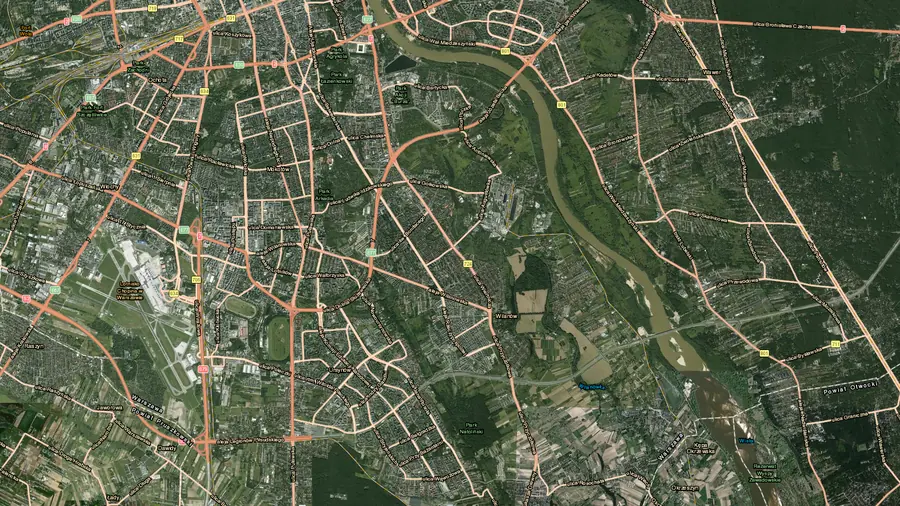
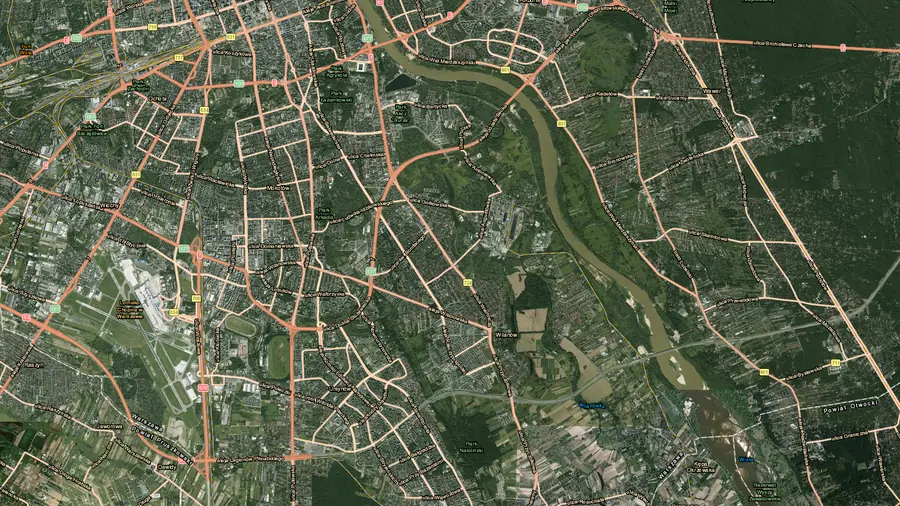
Mapa miejsc: nowa pinezka Wal Miedzeszynski 646 (obok Hangar 646), 175 zl/h
Nowe miejsce takze w grafiku (lib/miejsca.js, id hangar, poza Wawrem:
+15 zl/h, chyba ze obok innej jazdy). Czasy dojazdu z domyslnego wzoru.
Mapa przegenerowana (10 pinezek, oba kadry), dymek na telefonie ciasniej,
legenda: kropka zawsze przy swoim opisie.

diff --git a/static/index.html b/static/index.html
@@ -906,7 +906,7 @@
 
       <!-- Miejsca spotkań: jedna duża mapa. Zdjęcie satelitarne leży na naszym
            serwerze (narzedzia/generuj-mape-miejsc.py — dwa kadry: 16:9 desktop
-           i 1:1 telefon; skrypt podaje pozycje pinezek --x/--y i --xm/--ym).
+           i 4:3 telefon; skrypt podaje pozycje pinezek --x/--y i --xm/--ym).
            Klik w pinezkę otwiera dymek z opisem i linkami (js/main.js); bez JS
            pinezka jest zwykłym linkiem do trasy komunikacją miejską.
            Interaktywna mapa Google (Moje Mapy, iframe) ładuje się DOPIERO po
@@ -917,44 +917,48 @@
         <h3 class="miejsca-tytul" data-i18n="miejsca-tytul">Miejsca spotkań — kliknij pinezkę, żeby zobaczyć cenę i dojazd komunikacją miejską. Inne miejsce można dogadać telefonicznie.</h3>
         <div class="mapa-miejsc" data-mapa-miejsc data-mapa-src="">
           <picture>
-            <source media="(max-width: 760px)" srcset="img/mapy/mapa-miejsc-spotkan-warszawa-telefon.webp" width="1100" height="1100">
-            <img class="mapa-podglad" src="img/mapy/mapa-miejsc-spotkan-warszawa-900.webp" srcset="img/mapy/mapa-miejsc-spotkan-warszawa-900.webp 900w, img/mapy/mapa-miejsc-spotkan-warszawa.webp 1770w" sizes="(max-width: 1100px) calc(100vw - 40px), 1060px" width="1770" height="996" alt="Mapa satelitarna południowej Warszawy z 9 miejscami spotkań na jazdy doszkalające — od Łopuszańskiej po Wawer" loading="lazy" data-i18n-attr="alt:mapa-alt">
+            <source media="(max-width: 760px)" srcset="img/mapy/mapa-miejsc-spotkan-warszawa-telefon.webp" width="1100" height="825">
+            <img class="mapa-podglad" src="img/mapy/mapa-miejsc-spotkan-warszawa-900.webp" srcset="img/mapy/mapa-miejsc-spotkan-warszawa-900.webp 900w, img/mapy/mapa-miejsc-spotkan-warszawa.webp 1770w" sizes="(max-width: 1100px) calc(100vw - 40px), 1060px" width="1770" height="996" alt="Mapa satelitarna południowej Warszawy z 10 miejscami spotkań na jazdy doszkalające — od Łopuszańskiej po Wawer" loading="lazy" data-i18n-attr="alt:mapa-alt">
           </picture>
-          <a class="mapa-pin mapa-pin-gratis etykieta-dol-lewo" style="--x:89.29%;--y:46.7%;--xm:96.05%;--ym:47.82%" href="https://www.google.com/maps/dir/?api=1&amp;destination=52.181497,21.190287&amp;travelmode=transit" target="_blank" rel="noopener" data-dymek="dymek-1" aria-controls="dymek-1">
+          <a class="mapa-pin mapa-pin-gratis etykieta-dol-lewo" style="--x:89.29%;--y:50.41%;--xm:96.05%;--ym:50.27%" href="https://www.google.com/maps/dir/?api=1&amp;destination=52.181497,21.190287&amp;travelmode=transit" target="_blank" rel="noopener" data-dymek="dymek-1" aria-controls="dymek-1">
             <span class="mapa-pin-ikona" aria-hidden="true"></span>
             <span class="mapa-pin-etykieta"><span>Będzińska / K&amp;M Park</span> <b>160 zł/h</b></span>
           </a>
-          <a class="mapa-pin mapa-pin-gratis etykieta-lewo" style="--x:73.55%;--y:42.75%;--xm:77.6%;--ym:45.22%" href="https://www.google.com/maps/dir/?api=1&amp;destination=52.185638,21.142464&amp;travelmode=transit" target="_blank" rel="noopener" data-dymek="dymek-2" aria-controls="dymek-2">
+          <a class="mapa-pin mapa-pin-gratis etykieta-lewo" style="--x:73.55%;--y:46.46%;--xm:77.6%;--ym:47.67%" href="https://www.google.com/maps/dir/?api=1&amp;destination=52.185638,21.142464&amp;travelmode=transit" target="_blank" rel="noopener" data-dymek="dymek-2" aria-controls="dymek-2">
             <span class="mapa-pin-ikona" aria-hidden="true"></span>
             <span class="mapa-pin-etykieta"><span>Zerzeń / DoubleTree</span> <b>160 zł/h</b></span>
           </a>
-          <a class="mapa-pin mapa-pin-gratis etykieta-lewo" style="--x:81.97%;--y:22.9%;--xm:87.48%;--ym:32.13%" href="https://www.google.com/maps/dir/?api=1&amp;destination=52.206440,21.168065&amp;travelmode=transit" target="_blank" rel="noopener" data-dymek="dymek-3" aria-controls="dymek-3">
+          <a class="mapa-pin mapa-pin-gratis etykieta-lewo" style="--x:81.97%;--y:26.62%;--xm:87.48%;--ym:34.58%" href="https://www.google.com/maps/dir/?api=1&amp;destination=52.206440,21.168065&amp;travelmode=transit" target="_blank" rel="noopener" data-dymek="dymek-3" aria-controls="dymek-3">
             <span class="mapa-pin-ikona" aria-hidden="true"></span>
             <span class="mapa-pin-etykieta"><span>Ferio Wawer</span> <b>160 zł/h</b></span>
           </a>
-          <a class="mapa-pin mapa-pin-uzgodnienie etykieta-prawo" style="--x:57.38%;--y:73.9%;--xm:58.65%;--ym:65.76%" href="https://www.google.com/maps/dir/?api=1&amp;destination=52.152972,21.093352&amp;travelmode=transit" target="_blank" rel="noopener" data-dymek="dymek-4" aria-controls="dymek-4">
+          <a class="mapa-pin mapa-pin-uzgodnienie etykieta-prawo" style="--x:57.38%;--y:77.62%;--xm:58.65%;--ym:68.22%" href="https://www.google.com/maps/dir/?api=1&amp;destination=52.152972,21.093352&amp;travelmode=transit" target="_blank" rel="noopener" data-dymek="dymek-4" aria-controls="dymek-4">
             <span class="mapa-pin-ikona" aria-hidden="true"></span>
             <span class="mapa-pin-etykieta"><span>Bricoman Wilanów</span> <b>175 zł/h</b></span>
           </a>
-          <a class="mapa-pin mapa-pin-uzgodnienie etykieta-lewo" style="--x:34.52%;--y:84.52%;--xm:31.85%;--ym:72.77%" href="https://www.google.com/maps/dir/?api=1&amp;destination=52.141827,21.023871&amp;travelmode=transit" target="_blank" rel="noopener" data-dymek="dymek-5" aria-controls="dymek-5">
+          <a class="mapa-pin mapa-pin-uzgodnienie etykieta-lewo" style="--x:34.52%;--y:88.24%;--xm:31.85%;--ym:75.22%" href="https://www.google.com/maps/dir/?api=1&amp;destination=52.141827,21.023871&amp;travelmode=transit" target="_blank" rel="noopener" data-dymek="dymek-5" aria-controls="dymek-5">
             <span class="mapa-pin-ikona" aria-hidden="true"></span>
             <span class="mapa-pin-etykieta"><span>Auchan Puławska 427</span> <b>175 zł/h</b></span>
           </a>
-          <a class="mapa-pin mapa-pin-uzgodnienie etykieta-prawo" style="--x:28.86%;--y:50.25%;--xm:25.22%;--ym:50.17%" href="https://www.google.com/maps/dir/?api=1&amp;destination=52.177775,21.006682&amp;travelmode=transit" target="_blank" rel="noopener" data-dymek="dymek-6" aria-controls="dymek-6">
+          <a class="mapa-pin mapa-pin-uzgodnienie etykieta-prawo" style="--x:28.86%;--y:53.97%;--xm:25.22%;--ym:52.62%" href="https://www.google.com/maps/dir/?api=1&amp;destination=52.177775,21.006682&amp;travelmode=transit" target="_blank" rel="noopener" data-dymek="dymek-6" aria-controls="dymek-6">
             <span class="mapa-pin-ikona" aria-hidden="true"></span>
             <span class="mapa-pin-etykieta"><span>Shell, Galeria Mokotów</span> <b>175 zł/h</b></span>
           </a>
-          <a class="mapa-pin mapa-pin-uzgodnienie etykieta-dol-prawo" style="--x:45.03%;--y:77.74%;--xm:44.17%;--ym:68.3%" href="https://www.google.com/maps/dir/?api=1&amp;destination=52.148946,21.055811&amp;travelmode=transit" target="_blank" rel="noopener" data-dymek="dymek-7" aria-controls="dymek-7">
+          <a class="mapa-pin mapa-pin-uzgodnienie etykieta-dol-prawo" style="--x:45.03%;--y:81.45%;--xm:44.17%;--ym:70.75%" href="https://www.google.com/maps/dir/?api=1&amp;destination=52.148946,21.055811&amp;travelmode=transit" target="_blank" rel="noopener" data-dymek="dymek-7" aria-controls="dymek-7">
             <span class="mapa-pin-ikona" aria-hidden="true"></span>
             <span class="mapa-pin-etykieta"><span>Cynamonowa 4</span> <b>175 zł/h</b></span>
           </a>
-          <a class="mapa-pin mapa-pin-uzgodnienie etykieta-prawo" style="--x:10.74%;--y:36.13%;--xm:3.98%;--ym:40.85%" href="https://www.google.com/maps/dir/?api=1&amp;destination=52.192578,20.951633&amp;travelmode=transit" target="_blank" rel="noopener" data-dymek="dymek-8" aria-controls="dymek-8">
+          <a class="mapa-pin mapa-pin-uzgodnienie etykieta-prawo" style="--x:10.74%;--y:39.84%;--xm:3.98%;--ym:43.3%" href="https://www.google.com/maps/dir/?api=1&amp;destination=52.192578,20.951633&amp;travelmode=transit" target="_blank" rel="noopener" data-dymek="dymek-8" aria-controls="dymek-8">
             <span class="mapa-pin-ikona" aria-hidden="true"></span>
             <span class="mapa-pin-etykieta"><span>Łopuszańska 22</span> <b>175 zł/h</b></span>
           </a>
-          <a class="mapa-pin mapa-pin-uzgodnienie etykieta-prawo" style="--x:28.33%;--y:15.39%;--xm:24.6%;--ym:27.17%" href="https://www.google.com/maps/dir/?api=1&amp;destination=52.214311,21.005091&amp;travelmode=transit" target="_blank" rel="noopener" data-dymek="dymek-9" aria-controls="dymek-9">
+          <a class="mapa-pin mapa-pin-uzgodnienie etykieta-prawo" style="--x:28.33%;--y:19.1%;--xm:24.6%;--ym:29.62%" href="https://www.google.com/maps/dir/?api=1&amp;destination=52.214311,21.005091&amp;travelmode=transit" target="_blank" rel="noopener" data-dymek="dymek-9" aria-controls="dymek-9">
             <span class="mapa-pin-ikona" aria-hidden="true"></span>
             <span class="mapa-pin-etykieta"><span data-i18n="mk-9">Biblioteka Narodowa</span> <b>175 zł/h</b></span>
+          </a>
+          <a class="mapa-pin mapa-pin-uzgodnienie etykieta-prawo" style="--x:53.91%;--y:11.74%;--xm:54.58%;--ym:24.76%" href="https://www.google.com/maps/dir/?api=1&amp;destination=52.222022,21.082785&amp;travelmode=transit" target="_blank" rel="noopener" data-dymek="dymek-10" aria-controls="dymek-10">
+            <span class="mapa-pin-ikona" aria-hidden="true"></span>
+            <span class="mapa-pin-etykieta"><span>Hangar 646</span> <b>175 zł/h</b></span>
           </a>
           <div class="mapa-dymek mapa-dymek-gratis" id="dymek-1" role="dialog" aria-labelledby="dymek-1-tytul" tabindex="-1" hidden>
             <button type="button" class="mapa-dymek-zamknij" data-dymek-zamknij aria-label="Zamknij" data-i18n-attr="aria-label:mapa-dymek-zamknij">&times;</button>
@@ -1044,6 +1048,16 @@
             <div class="mapa-dymek-linki">
               <a class="mapa-dymek-trasa" href="https://www.google.com/maps/dir/?api=1&amp;destination=52.214311,21.005091&amp;travelmode=transit" target="_blank" rel="noopener"><svg viewBox="0 0 24 24" aria-hidden="true"><path d="M4 16c0 .88.39 1.67 1 2.22V20a1 1 0 0 0 1 1h1a1 1 0 0 0 1-1v-1h8v1a1 1 0 0 0 1 1h1a1 1 0 0 0 1-1v-1.78c.61-.55 1-1.34 1-2.22V6c0-3.5-3.58-4-8-4S4 2.5 4 6v10zm3.5 1a1.5 1.5 0 1 1 0-3 1.5 1.5 0 0 1 0 3zm9 0a1.5 1.5 0 1 1 0-3 1.5 1.5 0 0 1 0 3zM18 11H6V6h12v5z"/></svg><span data-i18n="miejsce-trasa">Dojazd komunikacją</span></a>
               <a class="mapa-dymek-mapa" href="https://www.google.com/maps/search/?api=1&amp;query=52.21431110095896,21.005091288313384" target="_blank" rel="noopener"><span data-i18n="miejsce-mapa">Mapa</span> ↗</a>
+            </div>
+          </div>
+          <div class="mapa-dymek mapa-dymek-uzgodnienie" id="dymek-10" role="dialog" aria-labelledby="dymek-10-tytul" tabindex="-1" hidden>
+            <button type="button" class="mapa-dymek-zamknij" data-dymek-zamknij aria-label="Zamknij" data-i18n-attr="aria-label:mapa-dymek-zamknij">&times;</button>
+            <p class="mapa-dymek-cena" data-i18n="miejsce-uzg">Do uzgodnienia · 175 zł/h</p>
+            <h4 class="mapa-dymek-tytul" id="dymek-10-tytul" data-i18n="m2-7">Wał Miedzeszyński 646 (obok Hangar 646)</h4>
+            <p class="mapa-dymek-opis" data-i18n="miejsce-uzg-opis">Dopłata 15 zł/h za dojazd, chyba że tego dnia i tak jestem w pobliżu — wtedy 160 zł/h. Trzeba wcześniej dogadać: WhatsApp, SMS lub telefon.</p>
+            <div class="mapa-dymek-linki">
+              <a class="mapa-dymek-trasa" href="https://www.google.com/maps/dir/?api=1&amp;destination=52.222022,21.082785&amp;travelmode=transit" target="_blank" rel="noopener"><svg viewBox="0 0 24 24" aria-hidden="true"><path d="M4 16c0 .88.39 1.67 1 2.22V20a1 1 0 0 0 1 1h1a1 1 0 0 0 1-1v-1h8v1a1 1 0 0 0 1 1h1a1 1 0 0 0 1-1v-1.78c.61-.55 1-1.34 1-2.22V6c0-3.5-3.58-4-8-4S4 2.5 4 6v10zm3.5 1a1.5 1.5 0 1 1 0-3 1.5 1.5 0 0 1 0 3zm9 0a1.5 1.5 0 1 1 0-3 1.5 1.5 0 0 1 0 3zM18 11H6V6h12v5z"/></svg><span data-i18n="miejsce-trasa">Dojazd komunikacją</span></a>
+              <a class="mapa-dymek-mapa" href="https://www.google.com/maps/search/?api=1&amp;query=52.2220217,21.0827851" target="_blank" rel="noopener"><span data-i18n="miejsce-mapa">Mapa</span> ↗</a>
             </div>
           </div>
           <button type="button" class="mapa-przybliz" data-mapa-przybliz hidden><svg viewBox="0 0 24 24" aria-hidden="true"><path d="M15.5 14h-.79l-.28-.27A6.47 6.47 0 0 0 16 9.5 6.5 6.5 0 1 0 9.5 16c1.61 0 3.09-.59 4.23-1.57l.27.28v.79l5 4.99L20.49 19l-4.99-5zm-6 0C7.01 14 5 11.99 5 9.5S7.01 5 9.5 5 14 7.01 14 9.5 11.99 14 9.5 14zm.5-7H9v2H7v1h2v2h1v-2h2V9h-2z"/></svg><span data-i18n="mapa-przybliz">Przybliż na mapie Google</span></button>

diff --git a/static/en.html b/static/en.html
@@ -799,7 +799,7 @@
 
       <!-- Miejsca spotkań: jedna duża mapa. Zdjęcie satelitarne leży na naszym
            serwerze (narzedzia/generuj-mape-miejsc.py — dwa kadry: 16:9 desktop
-           i 1:1 telefon; skrypt podaje pozycje pinezek --x/--y i --xm/--ym).
+           i 4:3 telefon; skrypt podaje pozycje pinezek --x/--y i --xm/--ym).
            Klik w pinezkę otwiera dymek z opisem i linkami (js/main.js); bez JS
            pinezka jest zwykłym linkiem do trasy komunikacją miejską.
            Interaktywna mapa Google (Moje Mapy, iframe) ładuje się DOPIERO po
@@ -810,44 +810,48 @@
         <h3 class="miejsca-tytul" data-i18n="miejsca-tytul">Meeting points — tap a pin to see the price and how to get there by public transport. Another spot can be arranged by phone.</h3>
         <div class="mapa-miejsc" data-mapa-miejsc data-mapa-src="">
           <picture>
-            <source media="(max-width: 760px)" srcset="img/mapy/mapa-miejsc-spotkan-warszawa-telefon.webp" width="1100" height="1100">
-            <img class="mapa-podglad" src="img/mapy/mapa-miejsc-spotkan-warszawa-900.webp" srcset="img/mapy/mapa-miejsc-spotkan-warszawa-900.webp 900w, img/mapy/mapa-miejsc-spotkan-warszawa.webp 1770w" sizes="(max-width: 1100px) calc(100vw - 40px), 1060px" width="1770" height="996" alt="Satellite map of southern Warsaw with 9 meeting points for refresher driving lessons — from Łopuszańska to Wawer" loading="lazy" data-i18n-attr="alt:mapa-alt">
+            <source media="(max-width: 760px)" srcset="img/mapy/mapa-miejsc-spotkan-warszawa-telefon.webp" width="1100" height="825">
+            <img class="mapa-podglad" src="img/mapy/mapa-miejsc-spotkan-warszawa-900.webp" srcset="img/mapy/mapa-miejsc-spotkan-warszawa-900.webp 900w, img/mapy/mapa-miejsc-spotkan-warszawa.webp 1770w" sizes="(max-width: 1100px) calc(100vw - 40px), 1060px" width="1770" height="996" alt="Satellite map of southern Warsaw with 10 meeting points for refresher driving lessons — from Łopuszańska to Wawer" loading="lazy" data-i18n-attr="alt:mapa-alt">
           </picture>
-          <a class="mapa-pin mapa-pin-gratis etykieta-dol-lewo" style="--x:89.29%;--y:46.7%;--xm:96.05%;--ym:47.82%" href="https://www.google.com/maps/dir/?api=1&amp;destination=52.181497,21.190287&amp;travelmode=transit" target="_blank" rel="noopener" data-dymek="dymek-1" aria-controls="dymek-1">
+          <a class="mapa-pin mapa-pin-gratis etykieta-dol-lewo" style="--x:89.29%;--y:50.41%;--xm:96.05%;--ym:50.27%" href="https://www.google.com/maps/dir/?api=1&amp;destination=52.181497,21.190287&amp;travelmode=transit" target="_blank" rel="noopener" data-dymek="dymek-1" aria-controls="dymek-1">
             <span class="mapa-pin-ikona" aria-hidden="true"></span>
             <span class="mapa-pin-etykieta"><span>Będzińska / K&amp;M Park</span> <b>160 zł/h</b></span>
           </a>
-          <a class="mapa-pin mapa-pin-gratis etykieta-lewo" style="--x:73.55%;--y:42.75%;--xm:77.6%;--ym:45.22%" href="https://www.google.com/maps/dir/?api=1&amp;destination=52.185638,21.142464&amp;travelmode=transit" target="_blank" rel="noopener" data-dymek="dymek-2" aria-controls="dymek-2">
+          <a class="mapa-pin mapa-pin-gratis etykieta-lewo" style="--x:73.55%;--y:46.46%;--xm:77.6%;--ym:47.67%" href="https://www.google.com/maps/dir/?api=1&amp;destination=52.185638,21.142464&amp;travelmode=transit" target="_blank" rel="noopener" data-dymek="dymek-2" aria-controls="dymek-2">
             <span class="mapa-pin-ikona" aria-hidden="true"></span>
             <span class="mapa-pin-etykieta"><span>Zerzeń / DoubleTree</span> <b>160 zł/h</b></span>
           </a>
-          <a class="mapa-pin mapa-pin-gratis etykieta-lewo" style="--x:81.97%;--y:22.9%;--xm:87.48%;--ym:32.13%" href="https://www.google.com/maps/dir/?api=1&amp;destination=52.206440,21.168065&amp;travelmode=transit" target="_blank" rel="noopener" data-dymek="dymek-3" aria-controls="dymek-3">
+          <a class="mapa-pin mapa-pin-gratis etykieta-lewo" style="--x:81.97%;--y:26.62%;--xm:87.48%;--ym:34.58%" href="https://www.google.com/maps/dir/?api=1&amp;destination=52.206440,21.168065&amp;travelmode=transit" target="_blank" rel="noopener" data-dymek="dymek-3" aria-controls="dymek-3">
             <span class="mapa-pin-ikona" aria-hidden="true"></span>
             <span class="mapa-pin-etykieta"><span>Ferio Wawer</span> <b>160 zł/h</b></span>
           </a>
-          <a class="mapa-pin mapa-pin-uzgodnienie etykieta-prawo" style="--x:57.38%;--y:73.9%;--xm:58.65%;--ym:65.76%" href="https://www.google.com/maps/dir/?api=1&amp;destination=52.152972,21.093352&amp;travelmode=transit" target="_blank" rel="noopener" data-dymek="dymek-4" aria-controls="dymek-4">
+          <a class="mapa-pin mapa-pin-uzgodnienie etykieta-prawo" style="--x:57.38%;--y:77.62%;--xm:58.65%;--ym:68.22%" href="https://www.google.com/maps/dir/?api=1&amp;destination=52.152972,21.093352&amp;travelmode=transit" target="_blank" rel="noopener" data-dymek="dymek-4" aria-controls="dymek-4">
             <span class="mapa-pin-ikona" aria-hidden="true"></span>
             <span class="mapa-pin-etykieta"><span>Bricoman Wilanów</span> <b>175 zł/h</b></span>
           </a>
-          <a class="mapa-pin mapa-pin-uzgodnienie etykieta-lewo" style="--x:34.52%;--y:84.52%;--xm:31.85%;--ym:72.77%" href="https://www.google.com/maps/dir/?api=1&amp;destination=52.141827,21.023871&amp;travelmode=transit" target="_blank" rel="noopener" data-dymek="dymek-5" aria-controls="dymek-5">
+          <a class="mapa-pin mapa-pin-uzgodnienie etykieta-lewo" style="--x:34.52%;--y:88.24%;--xm:31.85%;--ym:75.22%" href="https://www.google.com/maps/dir/?api=1&amp;destination=52.141827,21.023871&amp;travelmode=transit" target="_blank" rel="noopener" data-dymek="dymek-5" aria-controls="dymek-5">
             <span class="mapa-pin-ikona" aria-hidden="true"></span>
             <span class="mapa-pin-etykieta"><span>Auchan Puławska 427</span> <b>175 zł/h</b></span>
           </a>
-          <a class="mapa-pin mapa-pin-uzgodnienie etykieta-prawo" style="--x:28.86%;--y:50.25%;--xm:25.22%;--ym:50.17%" href="https://www.google.com/maps/dir/?api=1&amp;destination=52.177775,21.006682&amp;travelmode=transit" target="_blank" rel="noopener" data-dymek="dymek-6" aria-controls="dymek-6">
+          <a class="mapa-pin mapa-pin-uzgodnienie etykieta-prawo" style="--x:28.86%;--y:53.97%;--xm:25.22%;--ym:52.62%" href="https://www.google.com/maps/dir/?api=1&amp;destination=52.177775,21.006682&amp;travelmode=transit" target="_blank" rel="noopener" data-dymek="dymek-6" aria-controls="dymek-6">
             <span class="mapa-pin-ikona" aria-hidden="true"></span>
             <span class="mapa-pin-etykieta"><span>Shell, Galeria Mokotów</span> <b>175 zł/h</b></span>
           </a>
-          <a class="mapa-pin mapa-pin-uzgodnienie etykieta-dol-prawo" style="--x:45.03%;--y:77.74%;--xm:44.17%;--ym:68.3%" href="https://www.google.com/maps/dir/?api=1&amp;destination=52.148946,21.055811&amp;travelmode=transit" target="_blank" rel="noopener" data-dymek="dymek-7" aria-controls="dymek-7">
+          <a class="mapa-pin mapa-pin-uzgodnienie etykieta-dol-prawo" style="--x:45.03%;--y:81.45%;--xm:44.17%;--ym:70.75%" href="https://www.google.com/maps/dir/?api=1&amp;destination=52.148946,21.055811&amp;travelmode=transit" target="_blank" rel="noopener" data-dymek="dymek-7" aria-controls="dymek-7">
             <span class="mapa-pin-ikona" aria-hidden="true"></span>
             <span class="mapa-pin-etykieta"><span>Cynamonowa 4</span> <b>175 zł/h</b></span>
           </a>
-          <a class="mapa-pin mapa-pin-uzgodnienie etykieta-prawo" style="--x:10.74%;--y:36.13%;--xm:3.98%;--ym:40.85%" href="https://www.google.com/maps/dir/?api=1&amp;destination=52.192578,20.951633&amp;travelmode=transit" target="_blank" rel="noopener" data-dymek="dymek-8" aria-controls="dymek-8">
+          <a class="mapa-pin mapa-pin-uzgodnienie etykieta-prawo" style="--x:10.74%;--y:39.84%;--xm:3.98%;--ym:43.3%" href="https://www.google.com/maps/dir/?api=1&amp;destination=52.192578,20.951633&amp;travelmode=transit" target="_blank" rel="noopener" data-dymek="dymek-8" aria-controls="dymek-8">
             <span class="mapa-pin-ikona" aria-hidden="true"></span>
             <span class="mapa-pin-etykieta"><span>Łopuszańska 22</span> <b>175 zł/h</b></span>
           </a>
-          <a class="mapa-pin mapa-pin-uzgodnienie etykieta-prawo" style="--x:28.33%;--y:15.39%;--xm:24.6%;--ym:27.17%" href="https://www.google.com/maps/dir/?api=1&amp;destination=52.214311,21.005091&amp;travelmode=transit" target="_blank" rel="noopener" data-dymek="dymek-9" aria-controls="dymek-9">
+          <a class="mapa-pin mapa-pin-uzgodnienie etykieta-prawo" style="--x:28.33%;--y:19.1%;--xm:24.6%;--ym:29.62%" href="https://www.google.com/maps/dir/?api=1&amp;destination=52.214311,21.005091&amp;travelmode=transit" target="_blank" rel="noopener" data-dymek="dymek-9" aria-controls="dymek-9">
             <span class="mapa-pin-ikona" aria-hidden="true"></span>
             <span class="mapa-pin-etykieta"><span data-i18n="mk-9">National Library</span> <b>175 zł/h</b></span>
+          </a>
+          <a class="mapa-pin mapa-pin-uzgodnienie etykieta-prawo" style="--x:53.91%;--y:11.74%;--xm:54.58%;--ym:24.76%" href="https://www.google.com/maps/dir/?api=1&amp;destination=52.222022,21.082785&amp;travelmode=transit" target="_blank" rel="noopener" data-dymek="dymek-10" aria-controls="dymek-10">
+            <span class="mapa-pin-ikona" aria-hidden="true"></span>
+            <span class="mapa-pin-etykieta"><span>Hangar 646</span> <b>175 zł/h</b></span>
           </a>
           <div class="mapa-dymek mapa-dymek-gratis" id="dymek-1" role="dialog" aria-labelledby="dymek-1-tytul" tabindex="-1" hidden>
             <button type="button" class="mapa-dymek-zamknij" data-dymek-zamknij aria-label="Close" data-i18n-attr="aria-label:mapa-dymek-zamknij">&times;</button>
@@ -937,6 +941,16 @@
             <div class="mapa-dymek-linki">
               <a class="mapa-dymek-trasa" href="https://www.google.com/maps/dir/?api=1&amp;destination=52.214311,21.005091&amp;travelmode=transit" target="_blank" rel="noopener"><svg viewBox="0 0 24 24" aria-hidden="true"><path d="M4 16c0 .88.39 1.67 1 2.22V20a1 1 0 0 0 1 1h1a1 1 0 0 0 1-1v-1h8v1a1 1 0 0 0 1 1h1a1 1 0 0 0 1-1v-1.78c.61-.55 1-1.34 1-2.22V6c0-3.5-3.58-4-8-4S4 2.5 4 6v10zm3.5 1a1.5 1.5 0 1 1 0-3 1.5 1.5 0 0 1 0 3zm9 0a1.5 1.5 0 1 1 0-3 1.5 1.5 0 0 1 0 3zM18 11H6V6h12v5z"/></svg><span data-i18n="miejsce-trasa">Public transport</span></a>
               <a class="mapa-dymek-mapa" href="https://www.google.com/maps/search/?api=1&amp;query=52.21431110095896,21.005091288313384" target="_blank" rel="noopener"><span data-i18n="miejsce-mapa">Map</span> ↗</a>
+            </div>
+          </div>
+          <div class="mapa-dymek mapa-dymek-uzgodnienie" id="dymek-10" role="dialog" aria-labelledby="dymek-10-tytul" tabindex="-1" hidden>
+            <button type="button" class="mapa-dymek-zamknij" data-dymek-zamknij aria-label="Close" data-i18n-attr="aria-label:mapa-dymek-zamknij">&times;</button>
+            <p class="mapa-dymek-cena" data-i18n="miejsce-uzg">To be agreed · 175 zł/h</p>
+            <h4 class="mapa-dymek-tytul" id="dymek-10-tytul" data-i18n="m2-7">Wał Miedzeszyński 646 (next to Hangar 646)</h4>
+            <p class="mapa-dymek-opis" data-i18n="miejsce-uzg-opis">A 15 zł/h travel surcharge, unless I’m already nearby that day — then 160 zł/h. Please arrange it in advance: WhatsApp, SMS or a phone call.</p>
+            <div class="mapa-dymek-linki">
+              <a class="mapa-dymek-trasa" href="https://www.google.com/maps/dir/?api=1&amp;destination=52.222022,21.082785&amp;travelmode=transit" target="_blank" rel="noopener"><svg viewBox="0 0 24 24" aria-hidden="true"><path d="M4 16c0 .88.39 1.67 1 2.22V20a1 1 0 0 0 1 1h1a1 1 0 0 0 1-1v-1h8v1a1 1 0 0 0 1 1h1a1 1 0 0 0 1-1v-1.78c.61-.55 1-1.34 1-2.22V6c0-3.5-3.58-4-8-4S4 2.5 4 6v10zm3.5 1a1.5 1.5 0 1 1 0-3 1.5 1.5 0 0 1 0 3zm9 0a1.5 1.5 0 1 1 0-3 1.5 1.5 0 0 1 0 3zM18 11H6V6h12v5z"/></svg><span data-i18n="miejsce-trasa">Public transport</span></a>
+              <a class="mapa-dymek-mapa" href="https://www.google.com/maps/search/?api=1&amp;query=52.2220217,21.0827851" target="_blank" rel="noopener"><span data-i18n="miejsce-mapa">Map</span> ↗</a>
             </div>
           </div>
           <button type="button" class="mapa-przybliz" data-mapa-przybliz hidden><svg viewBox="0 0 24 24" aria-hidden="true"><path d="M15.5 14h-.79l-.28-.27A6.47 6.47 0 0 0 16 9.5 6.5 6.5 0 1 0 9.5 16c1.61 0 3.09-.59 4.23-1.57l.27.28v.79l5 4.99L20.49 19l-4.99-5zm-6 0C7.01 14 5 11.99 5 9.5S7.01 5 9.5 5 14 7.01 14 9.5 11.99 14 9.5 14zm.5-7H9v2H7v1h2v2h1v-2h2V9h-2z"/></svg><span data-i18n="mapa-przybliz">Zoom in on Google Maps</span></button>

diff --git a/lib/miejsca.js b/lib/miejsca.js
@@ -5,7 +5,7 @@
  * (w odpowiedzi /api/dostepnosc), więc grafik i formularz nie mają
  * własnej, osobnej kopii, która mogłaby się rozjechać.
  *
- * Współrzędne takie same jak w narzedzia/generuj-mapki.mjs (mapki w Kontakcie).
+ * Współrzędne takie same jak w narzedzia/generuj-mape-miejsc.py (mapa w Kontakcie).
  */
 
 export const MIEJSCA = [
@@ -18,6 +18,7 @@ export const MIEJSCA = [
   { id: 'cynamonowa', nazwa: 'Parking Cynamonowa 4 (koło dealera Mazdy)', nazwa_en: 'Car park at Cynamonowa 4 (by the Mazda dealer)', wawer: false, lat: 52.1489457, lng: 21.055811 },
   { id: 'lopuszanska', nazwa: 'Łopuszańska 22', nazwa_en: 'Łopuszańska 22', wawer: false, lat: 52.19257846238642, lng: 20.95163280598338 },
   { id: 'niepodleglosci', nazwa: 'al. Niepodległości 213 (parking pod Biblioteką Narodową)', nazwa_en: 'al. Niepodległości 213 (car park by the National Library)', wawer: false, lat: 52.21431110095896, lng: 21.005091288313384 },
+  { id: 'hangar', nazwa: 'Wał Miedzeszyński 646 (obok Hangar 646)', nazwa_en: 'Wał Miedzeszyński 646 (next to Hangar 646)', wawer: false, lat: 52.2220217, lng: 21.0827851 },
 ];
 
 const WG_ID = new Map(MIEJSCA.map((m) => [m.id, m]));

diff --git a/static/js/i18n-data-index.js b/static/js/i18n-data-index.js
@@ -289,7 +289,7 @@ window.I18N = {
   /* --- Miejsca spotkań / Meeting points --- */
   'miejsca-tytul':
     'Meeting points — tap a pin to see the price and how to get there by public transport. Another spot can be arranged by phone.',
-  'mapa-alt': 'Satellite map of southern Warsaw with 9 meeting points for refresher driving lessons — from Łopuszańska to Wawer',
+  'mapa-alt': 'Satellite map of southern Warsaw with 10 meeting points for refresher driving lessons — from Łopuszańska to Wawer',
   'mk-9': 'National Library',
   'mapa-przybliz': 'Zoom in on Google Maps',
   'mapa-nota': 'the Google map loads only after you click “Zoom in” — Google may then set its own cookies.',
@@ -314,6 +314,7 @@ window.I18N = {
   'm2-4': 'Car park at Cynamonowa 4 (by the Mazda dealer)',
   'm2-5': 'Łopuszańska 22',
   'm2-6': 'al. Niepodległości 213 — car park by the National Library',
+  'm2-7': 'Wał Miedzeszyński 646 (next to Hangar 646)',
 
   /* --- Najczęstsze pytania / FAQ --- */
   'faq-kicker': 'Questions and answers',

diff --git a/static/css/style.css b/static/css/style.css
@@ -3162,7 +3162,17 @@ body.lightbox-open {
 @container (max-width: 599px) {
   .mapa-dymek {
     width: calc(100% - 16px);
-    padding: 10px 14px 12px;
+    padding: 9px 14px 11px;
+  }
+
+  .mapa-dymek-tytul {
+    margin-bottom: 2px;
+  }
+
+  .mapa-dymek-opis {
+    margin-bottom: 8px;
+    font-size: 0.76rem;
+    line-height: 1.35;
   }
 
   .mapa-pin-ikona {

diff --git a/narzedzia/generuj-mape-miejsc.py b/narzedzia/generuj-mape-miejsc.py
@@ -48,7 +48,8 @@ KADRY = [
     ('-telefon', 60, 1, [1100]),          # kwadrat: nad i pod pinezkami jest miejsce na dymek
 ]
 
-# typ: 'gratis' = dojazd bezpłatny (160 zł/h), 'uzgodnienie' = 175 zł/h
+# typ: 'gratis' = dojazd bezpłatny (160 zł/h), 'uzgodnienie' = 175 zł/h.
+# Te same miejsca (i współrzędne) są w lib/miejsca.js — grafik rezerwacji.
 MIEJSCA = [
     ('bedzinska-km-park', 'Będzińska / K&M Park', 52.18149683839272, 21.190286834215232, 'gratis'),
     ('zerzen-doubletree', 'Zerzeń / DoubleTree by Hilton', 52.185637864370754, 21.142463683183966, 'gratis'),
@@ -59,6 +60,7 @@ MIEJSCA = [
     ('cynamonowa-4', 'Parking Cynamonowa 4 (koło dealera Mazdy)', 52.1489457, 21.055811, 'uzgodnienie'),
     ('lopuszanska-22', 'Łopuszańska 22', 52.19257846238642, 20.95163280598338, 'uzgodnienie'),
     ('niepodleglosci-213', 'al. Niepodległości 213 — parking pod Biblioteką Narodową', 52.21431110095896, 21.005091288313384, 'uzgodnienie'),
+    ('hangar-646', 'Wał Miedzeszyński 646 (obok Hangar 646)', 52.2220217, 21.0827851, 'uzgodnienie'),
 ]
 
 WARSTWY = [
